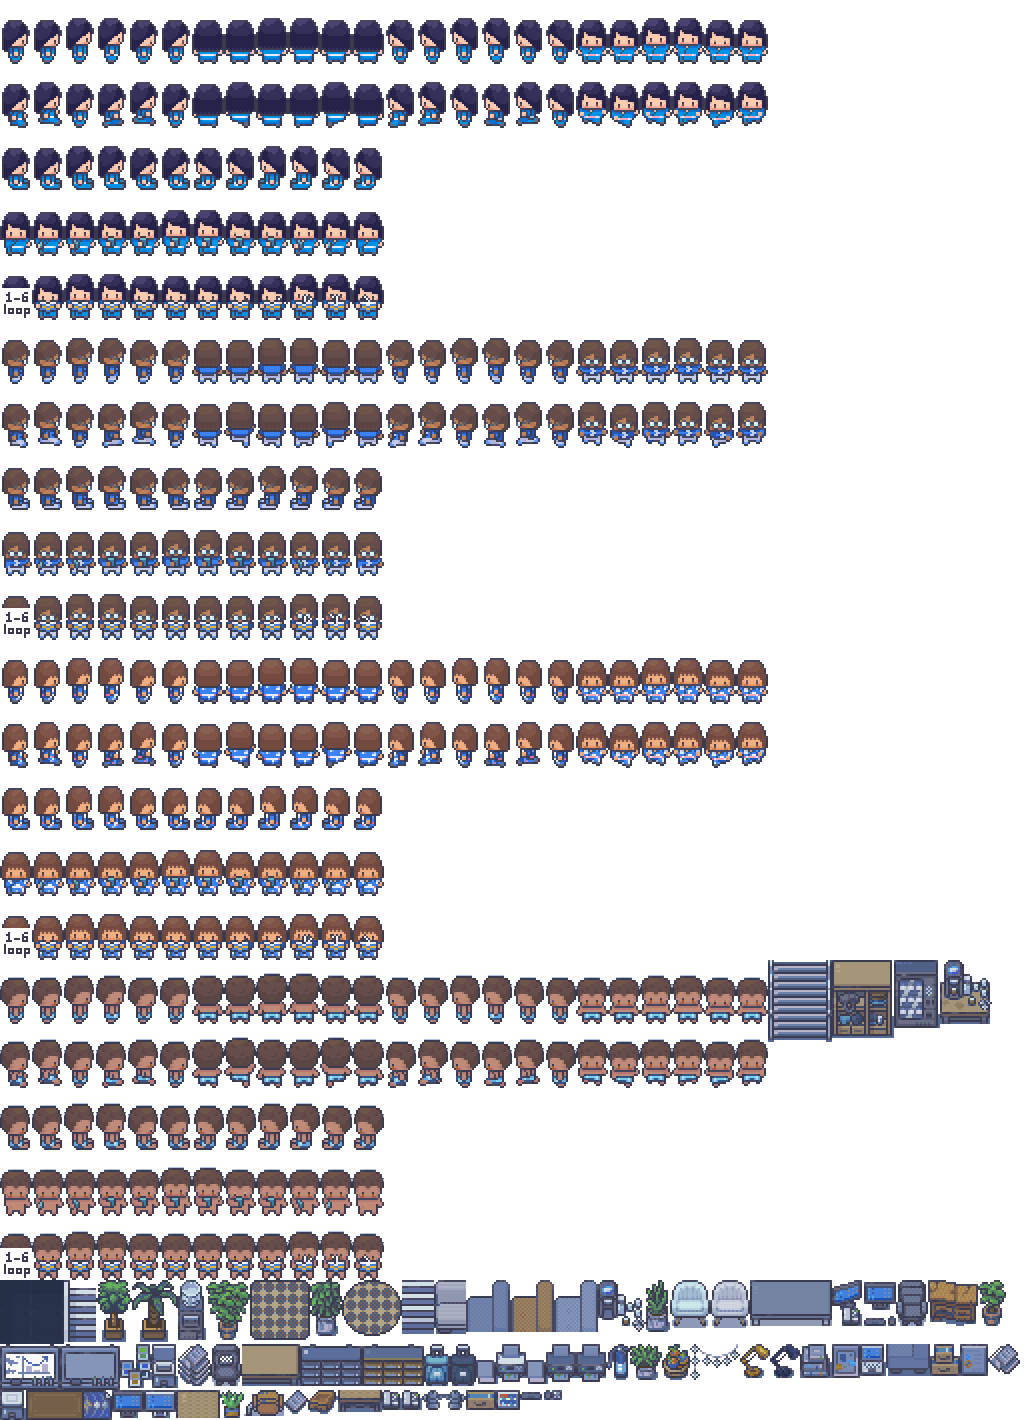
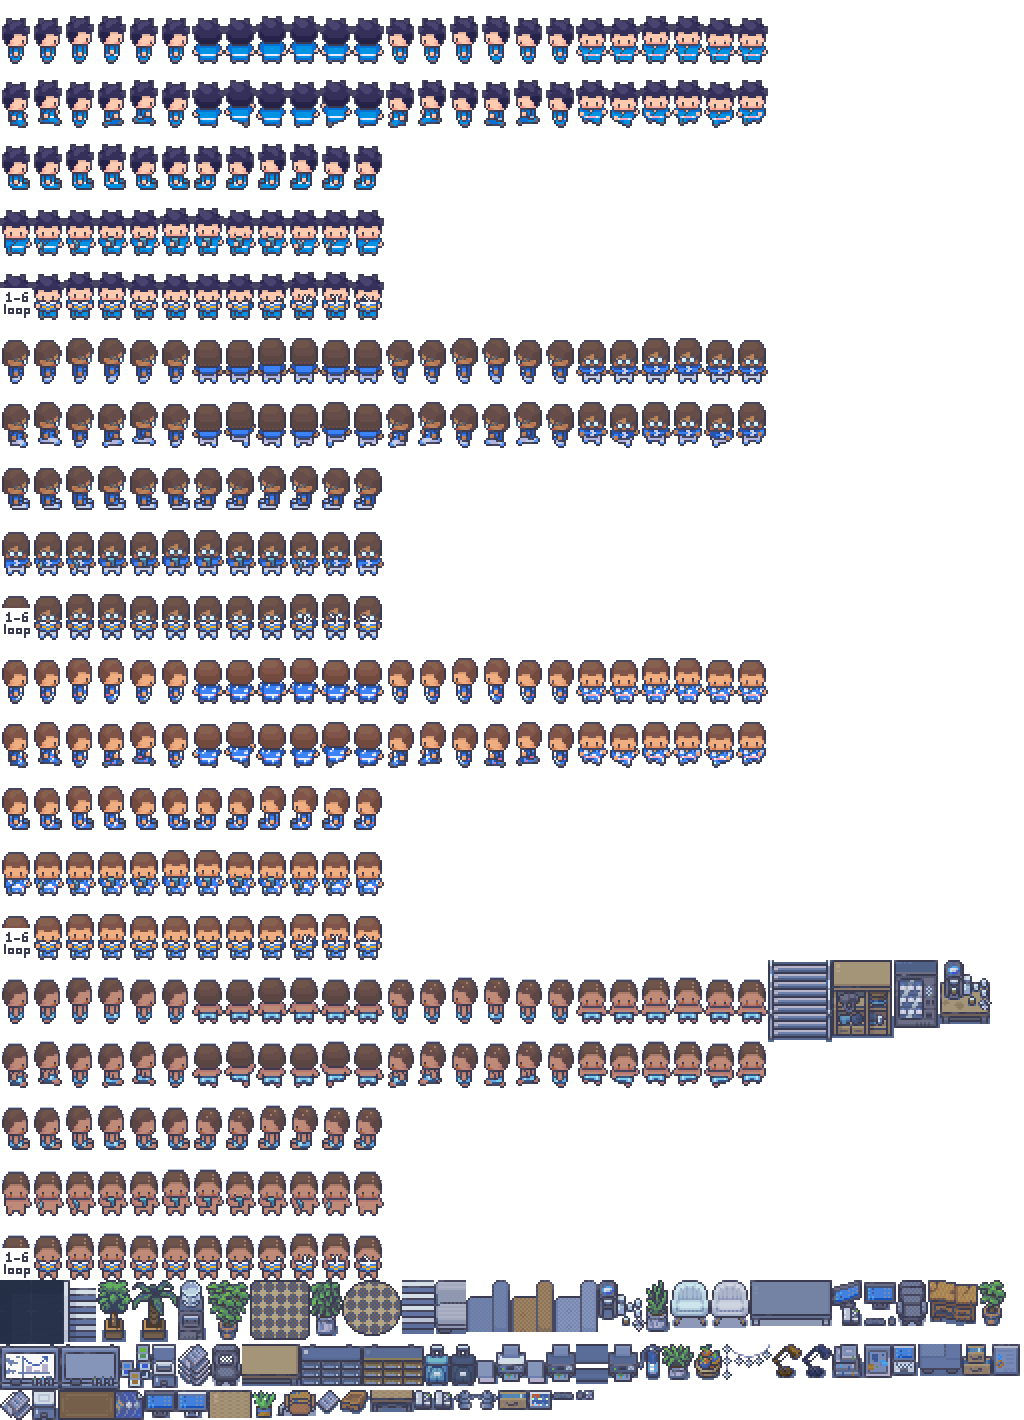
Office: dim the lamp fixtures, lighter nameplates, the other three stations
- Lamp shade goes deep amber so the light pool carries the light
- Nameplates are smaller, translucent and hang under the desk front
- No more paper-stack or drawer sprites that read as switched-off
  monitors on the live desks; a fruit bowl and cups instead
- Meeting corner gets a TV on a stand and a plant; boxes move right
- Lower-volume hairstyles for Ара, Нова and Эхо; seated people sit two
  pixels lower so the chin clears the monitor
- Веда's chart screen keeps gridlines between charts; the seated read
  pose is no longer used at a desk (it bowed the head behind the
  monitors)
- The info card stays inside the stage for the right-hand desks

Claude-Session: https://claude.ai/code/session_01Lyyr9uJyvKFspNxgDXS1Dv

diff --git a/src/office/layout.js b/src/office/layout.js
@@ -34,7 +34,7 @@ export const FURNITURE = [
 
   // ---- row 3: what stands against the back wall, and the two live seats
   { role: "cabinet", col: 0, row: 3 },
-  { role: "drawers", col: 1, row: 3 },
+  { role: "plantSmall2", col: 1, row: 3, offsetX: 2 },
   { role: "chair", col: 2, row: 3, seat: "ara", offsetY: -6 },
   { role: "cupboard", col: 5, row: 3 },
   { role: "chair", col: 10, row: 3, seat: "veda", offsetY: -6 },
@@ -42,9 +42,9 @@ export const FURNITURE = [
 
   // ---- row 4: Ара's desk (cols 0-3), the shared printer, Веда's desk (cols 8-11)
   { role: "deskL", col: 0, row: 4 }, { role: "deskM", col: 1, row: 4 }, { role: "deskM", col: 2, row: 4 }, { role: "deskR", col: 3, row: 4 },
-  { role: "paperStack", col: 0, row: 4, onDesk: true, offsetY: -24, offsetX: 2 },
+  { role: "fruitBowl", col: 0, row: 4, onDesk: true, offsetY: -22, offsetX: 2 },
   { role: "plantSmall", col: 0, row: 4, onDesk: true, offsetY: 0 },
-  { role: "phone", col: 1, row: 4, onDesk: true, offsetY: -26 },
+  { role: "phone2", col: 1, row: 4, onDesk: true, offsetY: -26, offsetX: 6 },
   { role: "papers", col: 1, row: 4, onDesk: true, offsetY: 0 },
   { role: "monitor", col: 2, row: 4, onDesk: true, screenOf: "ara", offsetY: -22 },
   { role: "keyboard", col: 2, row: 4, onDesk: true, offsetY: -6 },
@@ -53,7 +53,8 @@ export const FURNITURE = [
   { role: "printer", col: 5, row: 4 },
   { role: "deskL", col: 8, row: 4 }, { role: "deskM", col: 9, row: 4 }, { role: "deskM", col: 10, row: 4 }, { role: "deskR", col: 11, row: 4 },
   { role: "lamp", col: 8, row: 4, onDesk: true, offsetY: -28, lampOf: "veda" },
-  { role: "fax", col: 8, row: 4, onDesk: true, offsetY: 0, offsetX: 2 },
+  { role: "papers", col: 8, row: 4, onDesk: true, offsetY: -2, offsetX: -6 },
+  { role: "cups", col: 8, row: 4, onDesk: true, offsetY: -22, offsetX: 4 },
   { role: "dualMonitor", col: 9, row: 4, onDesk: true, screenOf: "veda", offsetY: -12 },
   { role: "paperPile", col: 11, row: 4, onDesk: true, offsetY: -26, offsetX: -6 },
   { role: "papers", col: 11, row: 4, onDesk: true, offsetY: 0, offsetX: -8 },
@@ -97,8 +98,8 @@ export const FURNITURE = [
   { role: "rackWood", col: 0, row: 9 },
   { role: "rugRound", col: 5, row: 9, flat: true },
   { role: "rackLow", col: 2, row: 9 },
-  { role: "box", col: 8, row: 9 },
-  { role: "crate", col: 9, row: 9, offsetY: -4 },
+  { role: "tv", col: 7, row: 9 },
+  { role: "box", col: 9, row: 9 },
   { role: "chair2", col: 5, row: 9 },
   { role: "chair2", col: 6, row: 9 },
   { role: "filing", col: 10, row: 9 },
@@ -106,6 +107,8 @@ export const FURNITURE = [
   { role: "plantBush", col: 2, row: 10 },
   { role: "tableLow", col: 5, row: 10, offsetX: -10 },
   { role: "mug2", col: 5, row: 10, onDesk: true, offsetY: -2, offsetX: 4 },
+  { role: "plantOffice2", col: 7, row: 10 },
+  { role: "crate", col: 9, row: 10, offsetY: -4 },
   { role: "rackWhite", col: 10, row: 10 },
 
   // ---- rows 11-13: the lounge, the copier, and the machines along the bottom wall
@@ -135,10 +138,10 @@ export const FURNITURE = [
 // desk below), `zone` is the tap target and zoom frame, `tag` is where the
 // nameplate hangs (tile units), `light` is the lamp's bulb in art pixels.
 export const DESKS = [
-  { id: "ara", seat: { col: 2, row: 3 }, zone: { col: 0, row: 2, cols: 4.5, rows: 3.5 }, tag: { col: 2, row: 5 }, light: { x: 112, y: 106 }, live: true, work: "chat" },
-  { id: "veda", seat: { col: 10, row: 3 }, zone: { col: 7.5, row: 2, cols: 4.5, rows: 3.5 }, tag: { col: 10, row: 5 }, light: { x: 276, y: 106 }, live: true, work: "chart" },
-  { id: "nova", seat: { col: 2, row: 6 }, zone: { col: 0, row: 5, cols: 4.5, rows: 3.5 }, tag: { col: 2, row: 8 }, light: { x: 20, y: 202 }, live: false, work: "outreach" },
-  { id: "eho", seat: { col: 10, row: 6 }, zone: { col: 7.5, row: 5, cols: 4.5, rows: 3.5 }, tag: { col: 10, row: 8 }, light: { x: 364, y: 202 }, live: false, work: "call" },
+  { id: "ara", seat: { col: 2, row: 3 }, zone: { col: 0, row: 2, cols: 4.5, rows: 3.5 }, tag: { col: 2, row: 5.4 }, light: { x: 112, y: 106 }, live: true, work: "chat" },
+  { id: "veda", seat: { col: 10, row: 3 }, zone: { col: 7.5, row: 2, cols: 4.5, rows: 3.5 }, tag: { col: 10, row: 5.4 }, light: { x: 276, y: 106 }, live: true, work: "chart" },
+  { id: "nova", seat: { col: 2, row: 6 }, zone: { col: 0, row: 5, cols: 4.5, rows: 3.5 }, tag: { col: 2, row: 8.4 }, light: { x: 20, y: 202 }, live: false, work: "outreach" },
+  { id: "eho", seat: { col: 10, row: 6 }, zone: { col: 7.5, row: 5, cols: 4.5, rows: 3.5 }, tag: { col: 10, row: 8.4 }, light: { x: 364, y: 202 }, live: false, work: "call" },
 ];
 
 // Where people go when they get up. `face` is the direction they turn to

diff --git a/src/App.jsx b/src/App.jsx
@@ -4234,6 +4234,15 @@ function officeStagePoint(view, wx, wy) {
   const dpr = view.cw / view.cssW;
   return { left: `${(view.ox + wx * view.scale) / dpr}px`, top: `${(view.oy + wy * view.scale) / dpr}px` };
 }
+// like officeStagePoint, but keeps a box of the info card's width inside the stage
+function officeBoxPoint(view, wx, wy) {
+  if (!view) return { left: "50%", top: "50%", opacity: 0 };
+  const dpr = view.cw / view.cssW;
+  const boxW = Math.min(0.82 * view.cssW, 340);
+  const x = (view.ox + wx * view.scale) / dpr;
+  const left = Math.min(view.cssW - boxW / 2 - 8, Math.max(boxW / 2 + 8, x));
+  return { left: `${left}px`, top: `${(view.oy + wy * view.scale) / dpr}px` };
+}
 function deskWorld(desk, T) {
   const z = desk.zone;
   // the nameplate and the info box hang from `tag` (the desk front), not the zoom frame
@@ -4245,8 +4254,8 @@ function OfficeTag({ view, x, y, dim, children, className = "" }) {
   return (
     <div
       className={[
-        "pointer-events-none absolute -translate-x-1/2 -translate-y-1/2 whitespace-nowrap border px-2 py-0.5 font-display text-[11px] font-semibold uppercase tracking-[0.14em] transition-opacity duration-300 sm:text-[12px]",
-        dim ? "border-white/10 bg-ink-950/80 text-fg-dim" : "border-sky-400/50 bg-ink-950/85 text-sky-300",
+        "pointer-events-none absolute -translate-x-1/2 -translate-y-1/2 whitespace-nowrap rounded-sm px-1.5 py-px font-display text-[9px] font-semibold uppercase tracking-[0.16em] transition-opacity duration-300 sm:text-[10px]",
+        dim ? "bg-ink-950/55 text-fg-dim/80" : "bg-ink-950/60 text-sky-300/85",
         className,
       ].join(" ")}
       style={officeStagePoint(view, x, y)}
@@ -4328,7 +4337,7 @@ function OfficeStage({ activeId, onSelect }) {
                 animate={{ opacity: 1, y: 0, transition: { delay: 0.3, ...SPRING_REVEAL } }}
                 exit={{ opacity: 0, transition: { duration: 0.15 } }}
                 className="pointer-events-none absolute w-[min(82%,340px)] -translate-x-1/2 border border-sky-400/40 bg-ink-950/90 px-3 py-2 shadow-glow backdrop-blur-sm"
-                style={officeStagePoint(view, deskWorld(active, T).cx, deskWorld(active, T).bottom + 6)}
+                style={officeBoxPoint(view, deskWorld(active, T).cx, deskWorld(active, T).bottom + 6)}
               >
                 <p className="font-display text-[18px] font-semibold leading-tight tracking-tight text-fg sm:text-[20px]">
                   {t(`office.agents.${active.id}.name`)}

diff --git a/src/office/engine.js b/src/office/engine.js
@@ -306,6 +306,8 @@ export function createOffice({ canvas, manifest, atlas, onView, reducedMotion = 
       return;
     }
     if (desk.work === "chart") {
+      // faint gridlines so the screen is never blank between charts
+      for (let gy = 2; gy < rows - 2; gy += 2) blk(1, gy, cols - 2, 1, "#16203F");
       const bars = [3, 6, 4, 7, 5, 6, 4];
       const usable = Math.min(bars.length, Math.floor((cols - 2) / 2));
       for (let i = 0; i < usable; i++) {
@@ -349,12 +351,12 @@ export function createOffice({ canvas, manifest, atlas, onView, reducedMotion = 
     if (p.state === "walking") { anim = "walk"; index = p.walkFrame; }
     else if (p.state === "seated") {
       if (p.desk.work === "call" && p.work.talking && p.char.anims.phone) { anim = "phone"; index = 3 + Math.floor(t / 160) % 6; }
-      else if (p.work.reading && p.char.anims.read) { anim = "read"; index = Math.floor(t / 220) % 6; }
       else { anim = p.work.typing ? "type" : "sit"; index = Math.floor(t / (p.work.typing ? 220 : 480)); }
     }
     const f = frameRect(p, anim, p.face, index);
     const fw = p.char.frameW, fh = p.char.frameH;
-    const dx = Math.round(p.x), dy = Math.round(p.y) + T - fh; // feet on the tile
+    // feet on the tile; a seated person sits two pixels lower so the chin clears the monitor
+    const dx = Math.round(p.x), dy = Math.round(p.y) + T - fh + (p.state === "seated" ? 2 : 0);
     // contact shadow under a standing or walking person
     if (p.state !== "seated") { ctx.fillStyle = C.shadow; ctx.fillRect(dx + 5 * K, dy + fh - 2 * K, fw - 10 * K, 2 * K); }
     if (f.flip) { ctx.save(); ctx.translate(dx + fw, dy); ctx.scale(-1, 1); ctx.drawImage(atlas, f.sx, f.sy, fw, fh, 0, 0, fw, fh); ctx.restore(); }
@@ -537,7 +539,7 @@ export function createOffice({ canvas, manifest, atlas, onView, reducedMotion = 
     },
     destroy() { destroyed = true; cancelAnimationFrame(raf); io.disconnect(); },
     // read-only snapshot for tests
-    debug() { return { people: people.map((p) => ({ id: p.id, state: p.state, col: p.col, row: p.row, face: p.face })), walker: walker && walker.id, view: { ...view } }; },
+    debug() { return { people: people.map((p) => ({ id: p.id, state: p.state, col: p.col, row: p.row, face: p.face, work: p.work && { typing: p.work.typing, talking: p.work.talking, reading: p.work.reading } })), walker: walker && walker.id, view: { ...view } }; },
     size: { W, H, T },
   };
 }

diff --git a/scripts/build-office-pack.py b/scripts/build-office-pack.py
@@ -232,8 +232,8 @@ def lz_sprites():
     Cf = lambda n: LZ_CONF.with_name(LZ_CONF.name.format(n))
 
     # lamp 142 is a light blue-grey desk lamp; the lit one goes gold, the unlit one navy
-    gold_lamp = {"#e2f2f3": GOLD["bulb"], "#cce6ec": GOLD["hi"], "#d4dee6": GOLD["hi"], "#bad2e0": GOLD["hi"],
-                 "#a4bbd5": GOLD["base"], "#91a5cf": GOLD["base"], "#738ca8": GOLD["lo"]}
+    gold_lamp = {"#e2f2f3": "#F59E0B", "#cce6ec": "#D98A0A", "#d4dee6": "#C27C0B", "#bad2e0": "#B06E0A",
+                 "#a4bbd5": "#8F5A0A", "#91a5cf": "#7A4C0A", "#738ca8": "#5C3808"}
     off_lamp = {"#e2f2f3": "#3A4478", "#cce6ec": "#3A4478", "#d4dee6": "#3A4478", "#bad2e0": "#343D6A",
                 "#a4bbd5": "#2A3358", "#91a5cf": "#2A3358", "#738ca8": "#1F274A"}
 
@@ -304,6 +304,7 @@ def lz_sprites():
     # tables
     add("TABLE_SMALL", lz_single(O(188), fw=2))
     add("TABLE_LOW", lz_single(O(190), fw=2))
+    add("TV", lz_single(Bs(161)))
     # plants
     add("PLANT_OFFICE", lz_single(O(98)))
     add("PLANT_OFFICE_2", lz_single(O(99)))
@@ -346,7 +347,7 @@ LZ_ROLES = {
     "crates": "CRATES", "crate": "CRATE", "box": "BOX", "box2": "BOX_2",
     "printer": "PRINTER", "copier": "COPIER", "waterCooler": "WATER_COOLER", "vending": "VENDING",
     "coffeeMachine": "COFFEE_MACHINE", "coffeeCounter": "COFFEE_COUNTER", "bin": "BIN", "binGrey": "BIN_GREY", "extinguisher": "EXTINGUISHER",
-    "tableSmall": "TABLE_SMALL", "tableLow": "TABLE_LOW",
+    "tableSmall": "TABLE_SMALL", "tableLow": "TABLE_LOW", "tv": "TV",
     "plantOffice": "PLANT_OFFICE", "plantOffice2": "PLANT_OFFICE_2", "plantOffice3": "PLANT_OFFICE_3",
     "plantTall": "PLANT_TALL", "plantPalm": "PLANT_PALM", "plantSmall": "PLANT_SMALL", "plantSmall2": "PLANT_SMALL_2", "plantBush": "PLANT_BUSH", "fruitBowl": "FRUIT_BOWL",
     "rugCheck": "RUG_CHECK", "rugRound": "RUG_ROUND", "rugMat": "RUG_MAT",
@@ -421,7 +422,7 @@ def lz_headset(frame):
 def lz_characters():
     people = {
         # Ара: reception. Long dark hair, light-blue jacket over a white top.
-        "ara": {"body": "Body_32x32_02", "eyes": "Eyes_32x32_01", "outfit": "Outfit_25_32x32_01", "hair": "Hairstyle_15_32x32_07",
+        "ara": {"body": "Body_32x32_02", "eyes": "Eyes_32x32_01", "outfit": "Outfit_25_32x32_01", "hair": "Hairstyle_21_32x32_07",
                 "outfitMap": {"#fbabc6": PAPER["hi"], "#dd71a3": PAPER["lo"]},
                 "hairMap": {"#647e99": HAIR_DARK["light"], "#566279": HAIR_DARK["base"], "#535662": HAIR_DARK["shade"]}},
         # Веда: analyst. Hair up, glasses, navy shirt with a pale collar.
@@ -429,10 +430,10 @@ def lz_characters():
                  "accessory": "Accessory_15_Glasses_32x32_01",
                  "outfitMap": {"#645d9a": BRAND["shade"], "#76689e": BRAND["base"], "#8d6ea7": BRAND["light"], "#8e99c8": BRAND["dark"]}},
         # Нова: customer care. Short brown hair, brand-blue top.
-        "nova": {"body": "Body_32x32_07", "eyes": "Eyes_32x32_01", "outfit": "Outfit_24_32x32_01", "hair": "Hairstyle_10_32x32_03",
+        "nova": {"body": "Body_32x32_07", "eyes": "Eyes_32x32_01", "outfit": "Outfit_24_32x32_01", "hair": "Hairstyle_12_32x32_03",
                  "outfitMap": {"#fbabc6": PAPER["hi"], "#eb8fb3": PAPER["lo"], "#0092e3": BRAND["base"], "#0970d4": BRAND["shade"], "#96d0f0": BRAND["light"]}},
         # Эхо: phone operator. Short crop, light hoodie, headset.
-        "eho": {"body": "Body_32x32_01", "eyes": "Eyes_32x32_05", "outfit": "Outfit_31_32x32_01", "hair": "Hairstyle_08_32x32_04", "headset": True},
+        "eho": {"body": "Body_32x32_01", "eyes": "Eyes_32x32_05", "outfit": "Outfit_31_32x32_01", "hair": "Hairstyle_06_32x32_04", "headset": True},
     }
     items, characters = [], {}
     for cid, spec in people.items():
